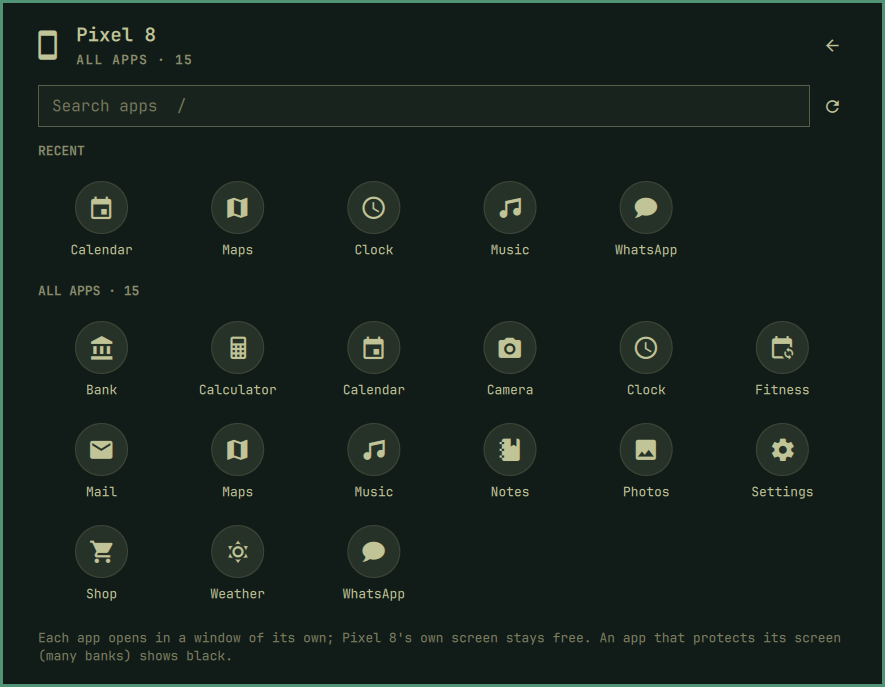
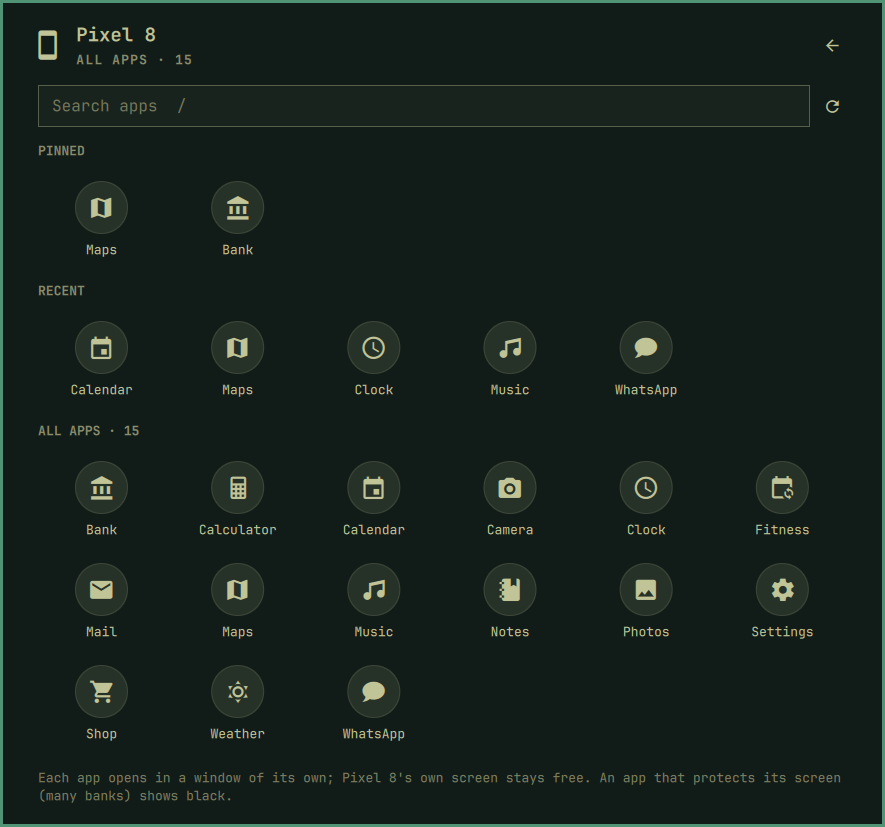
Docs: the All apps picture with its Pinned row; CHANGELOG for pinned and recent (#116)

diff --git a/CHANGELOG.md b/CHANGELOG.md
@@ -16,9 +16,10 @@ GitHub release with these notes.
   the screen opens by itself once it is on again.
 - **Apps** ([#116](https://github.com/sceny/omarchy-devices/issues/116)):
   the phone's apps, each in a window of its own, tiled, with their real
-  icons. An Apps section (pinned, then recently opened), an All apps page
-  with a search, and a notification's window button
-  that opens its app. An app's sound plays here or stays on the phone.
+  icons. An Apps section with Pinned and Recent rows (drag an app into
+  Pinned to pin it, drag to reorder, drag out to unpin), an All apps page
+  with a search, and a notification's window button that opens its app.
+  An app's sound plays here or stays on the phone.
 
 ## 0.7.0 — 2026-10-02
 
